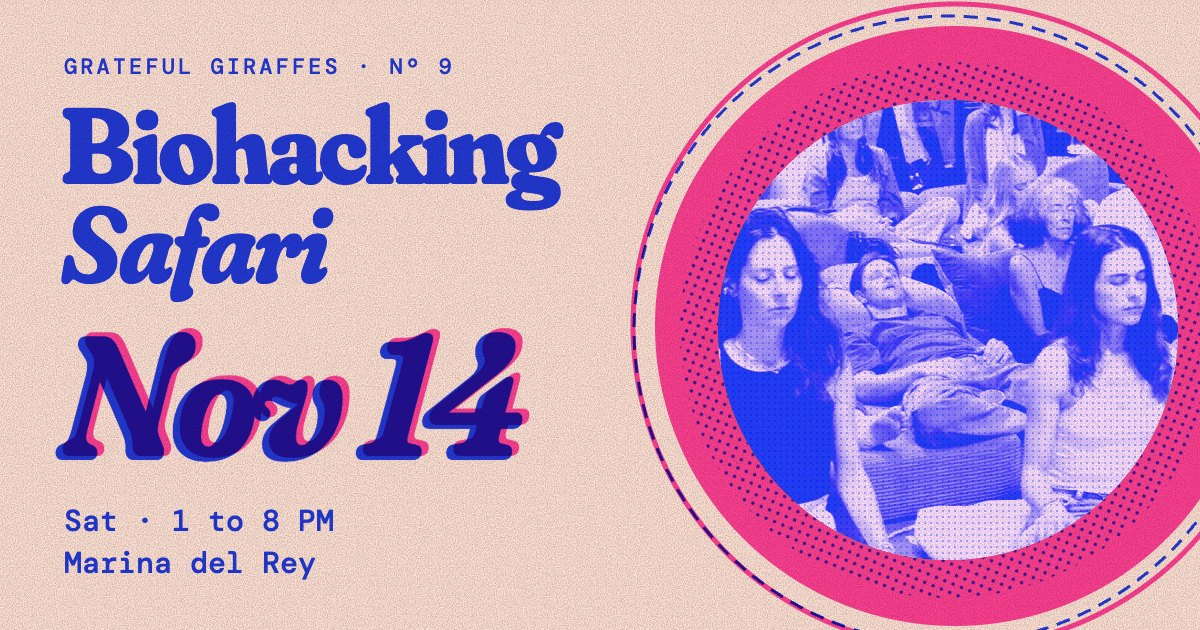
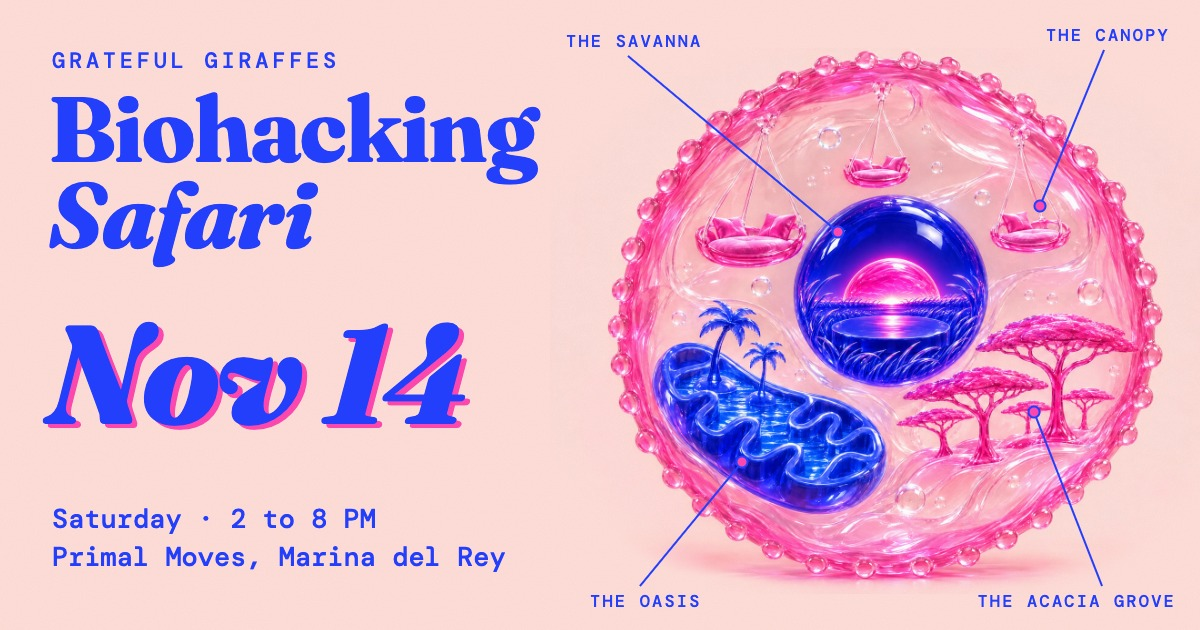
Biohacking Safari: new glass cell share card at 2 to 8 PM
Replaces the 1 to 8 PM covers on /biosafari and /biosafari-nov-14 and updates their image alt text.

diff --git a/biosafari/index.html b/biosafari/index.html
@@ -15,7 +15,7 @@
 <meta property="og:image:type" content="image/jpeg">
 <meta property="og:image:width" content="1200">
 <meta property="og:image:height" content="630">
-<meta property="og:image:alt" content="Biohacking Safari, Nov 14, Sat 2 to 8 PM, Marina del Rey">
+<meta property="og:image:alt" content="Biohacking Safari, Nov 14, Saturday 2 to 8 PM, Primal Moves, Marina del Rey. A glass cell whose parts are the Savanna, the Oasis, the Acacia Grove and the Canopy.">
 <meta name="twitter:card" content="summary_large_image">
 <meta name="twitter:title" content="The Biohacking Safari · Saturday, Nov 14">
 <meta name="twitter:description" content="2 to 8 PM at Primal Moves, Marina del Rey. Keynotes and panels on peptides, longevity and the frontier of health. Free RSVP.">
@@ -46,7 +46,7 @@
 </head>
 <body>
   <main class="card">
-    <img src="https://grateful.gg/biosafari/cover.jpg" alt="Biohacking Safari, Nov 14, Sat 2 to 8 PM, Marina del Rey" width="1200" height="630">
+    <img src="https://grateful.gg/biosafari/cover.jpg" alt="Biohacking Safari, Nov 14, Saturday 2 to 8 PM, Primal Moves, Marina del Rey. A glass cell whose parts are the Savanna, the Oasis, the Acacia Grove and the Canopy." width="1200" height="630">
     <div class="b"><h1>The Biohacking Safari · Saturday, Nov 14</h1><p>2 to 8 PM at Primal Moves, Marina del Rey. Keynotes and panels on peptides, longevity and the frontier of health. Free RSVP.</p>
     <a class="btn" href="https://app.grateful.gg/biosafari">Open the event &rarr;</a></div>
   </main>

diff --git a/biosafari-nov-14/index.html b/biosafari-nov-14/index.html
@@ -15,7 +15,7 @@
 <meta property="og:image:type" content="image/jpeg">
 <meta property="og:image:width" content="1200">
 <meta property="og:image:height" content="630">
-<meta property="og:image:alt" content="Poster art: a glowing violet giraffe inside a dividing cell">
+<meta property="og:image:alt" content="Biohacking Safari, Nov 14, Saturday 2 to 8 PM, Primal Moves, Marina del Rey. A glass cell whose parts are the Savanna, the Oasis, the Acacia Grove and the Canopy.">
 <meta name="twitter:card" content="summary_large_image">
 <meta name="twitter:title" content="Could you live 150 years?">
 <meta name="twitter:description" content="Keynotes on epigenetic aging, panels on peptides and skin, scans, a dental station, healing rooms upstairs, and so much more!">
@@ -46,7 +46,7 @@
 </head>
 <body>
   <main class="card">
-    <img src="https://grateful.gg/biosafari-nov-14/cover.jpg" alt="Poster art: a glowing violet giraffe inside a dividing cell" width="1200" height="630">
+    <img src="https://grateful.gg/biosafari-nov-14/cover.jpg" alt="Biohacking Safari, Nov 14, Saturday 2 to 8 PM, Primal Moves, Marina del Rey. A glass cell whose parts are the Savanna, the Oasis, the Acacia Grove and the Canopy." width="1200" height="630">
     <div class="b"><h1>Could you live 150 years?</h1><p>Keynotes on epigenetic aging, panels on peptides and skin, scans, a dental station, healing rooms upstairs, and so much more!</p>
     <a class="btn" href="https://app.grateful.gg/biosafari-nov-14">Open the event &rarr;</a></div>
   </main>
